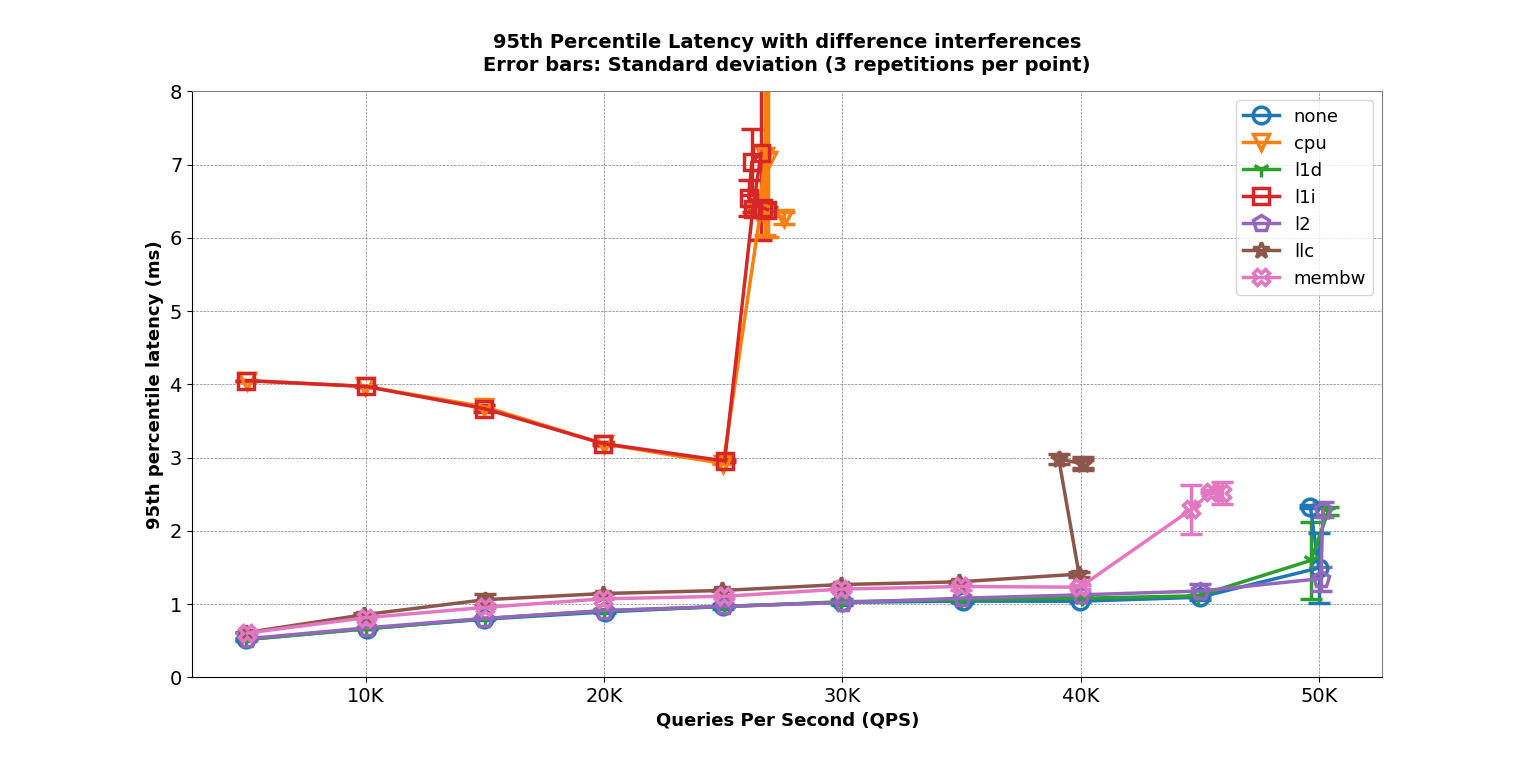
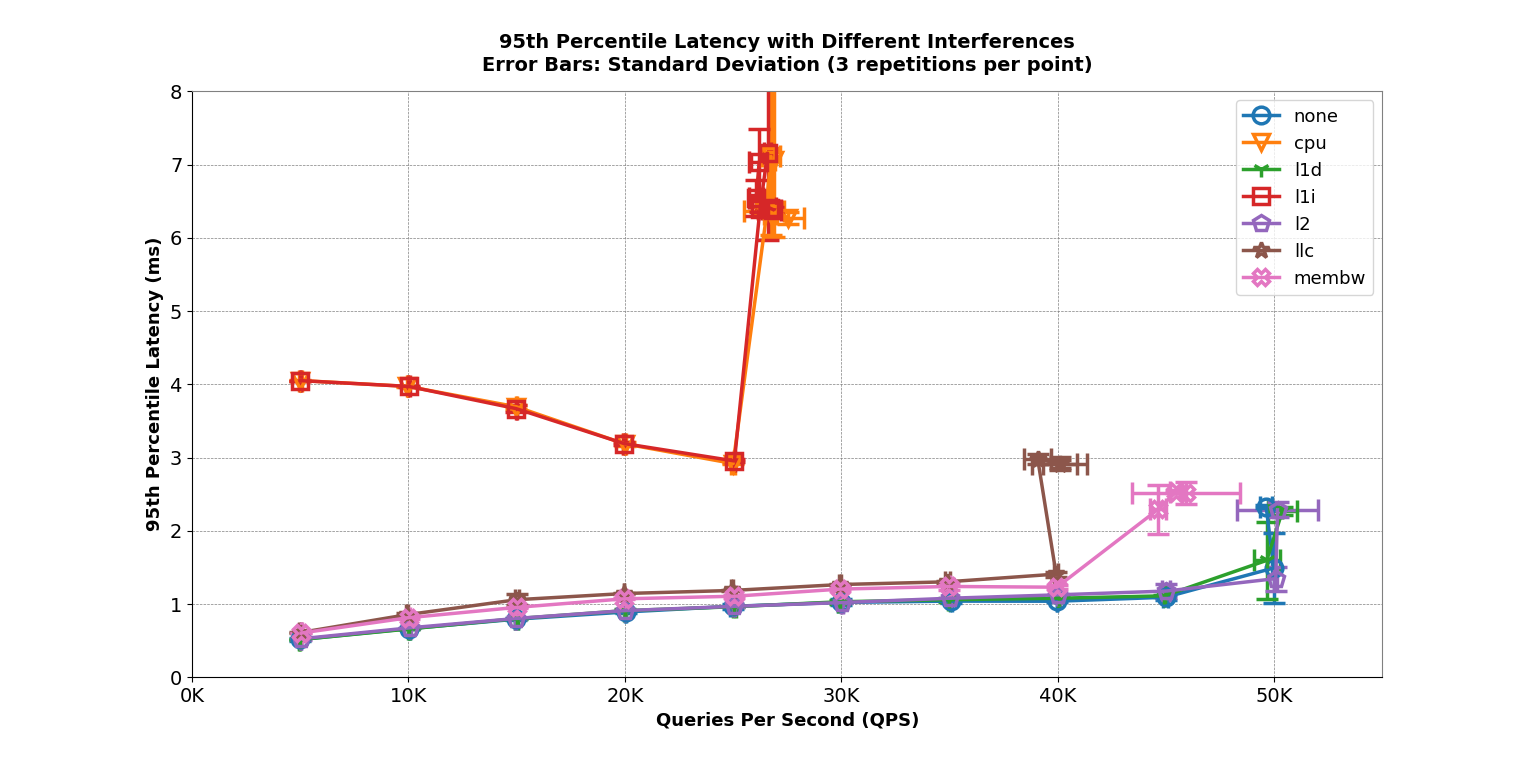
Added error bars to QPS

diff --git a/Part1/part1_extracted_data/create_plot.py b/Part1/part1_extracted_data/create_plot.py
@@ -15,21 +15,22 @@ def read_data(filename):
         for line in file:
             values = line.strip().split(',')
             
-            # avg_qps, avg_p95, std_p95
-            data.append([float(values[0]), float(values[1]), float(values[2])])
+            # avg_qps, std_qps, avg_p95, std_p95
+            data.append([float(values[0]), float(values[1]), float(values[2]), float(values[3])])
     return data
 
 # Plot information about interference. Transform ns to ms
 def plot_file(filename, marker):
     data = read_data(filename)
-    x = [float(row[0]) for row in data]
-    y = [float(row[1]/1000) for row in data]  # Transform into ms
-    yerr_std = [row[2]/1000 for row in data]
+    x = [row[0] for row in data]
+    xerr_std = [row[1] for row in data]
+    y = [row[2]/1000 for row in data]  # Transform into ms
+    yerr_std = [row[3]/1000 for row in data] 
 
     base_name = os.path.basename(filename)
     main_name = base_name.split('_')[0]
 
-    plt.errorbar(x, y, yerr=yerr_std, capsize=8, label=main_name, linewidth=2.5,
+    plt.errorbar(x, y, xerr=xerr_std, yerr=yerr_std, capsize=8, label=main_name, linewidth=2.5,
                  marker=marker, markersize=12, markerfacecolor='None', markeredgewidth=2.5)
 
 # Express thousands with K in plot
@@ -51,13 +52,13 @@ for interference, marker in zip(interferences, markers):
 ## Axis
 axis_label_font = {'fontsize': 13, 'fontweight': 'bold'}
 plt.xlabel('Queries Per Second (QPS)', fontdict=axis_label_font)
-plt.ylabel('95th percentile latency (ms)', fontdict=axis_label_font)
+plt.ylabel('95th Percentile Latency (ms)', fontdict=axis_label_font)
 
 ## Title
 title_font = {'fontsize': 14, 'fontweight': 'bold'}
 plt.title('''
-95th Percentile Latency with difference interferences\n
-Error bars: Standard deviation (3 repetitions per point)
+95th Percentile Latency with Different Interferences\n
+Error Bars: Standard Deviation (3 repetitions per point)
 ''', fontdict=title_font, linespacing=0.5)
 
 ## Ticks
@@ -81,5 +82,6 @@ handles = [h[0] for h in handles]  # Remove error bars from legend
 plt.gca().legend(handles, labels, fontsize=13)
 
 plt.ylim(0, 8)
+plt.xlim(0, 55000)
 
 plt.show()

diff --git a/Part1/extract_info_from_logs.py b/Part1/extract_info_from_logs.py
@@ -21,9 +21,10 @@ def extract_values_from_line(data, line_number):
 # Get min, max and avg of p95 across files of a specific line. Same thing with avg qps
 def calculate_statistics(values_p95, values_qps):
     avg_p95 = np.mean(values_p95)
-    avg_qps = np.mean(values_qps)
     std_p95 = np.std(values_p95)
-    return (avg_qps, avg_p95, std_p95)
+    avg_qps = np.mean(values_qps)
+    std_qps = np.std(values_qps)
+    return (avg_qps, std_qps, avg_p95, std_p95)
 
 def main():
     interferences = ["none", "cpu", "l1d", "l1i", "l2", "llc", "membw"]
@@ -31,7 +32,7 @@ def main():
         print(f"Considering interference {interference}")
 
         output_file = open(f"part1_extracted_data/{interference}_interference.txt", "w")
-        output_file.write("avg_qps, avg_p95, std_p95\n")
+        output_file.write("avg_qps, std_qps, avg_p95, std_p95\n")
         
         for line_number in range(11):
 
@@ -47,10 +48,10 @@ def main():
                 values_p95_runs.append(p95)
                 values_qps_runs.append(qps)
         
-            avg_qps, avg_p95, std_p95 = calculate_statistics(values_p95_runs, values_qps_runs)
+            avg_qps, std_qps, avg_p95, std_p95 = calculate_statistics(values_p95_runs, values_qps_runs)
 
             # One decimal place for readibility
-            output_file.write(f"{avg_qps:.1f}, {avg_p95:.1f}, {std_p95:.1f}\n")
+            output_file.write(f"{avg_qps:.1f}, {std_qps:.1f}, {avg_p95:.1f}, {std_p95:.1f}\n")
 
         output_file.close()
 
